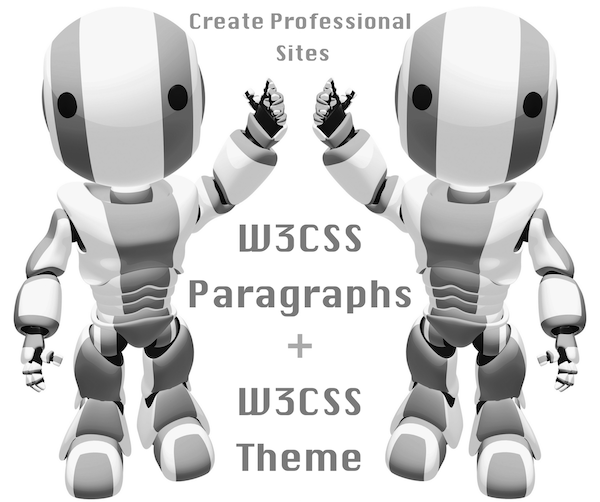
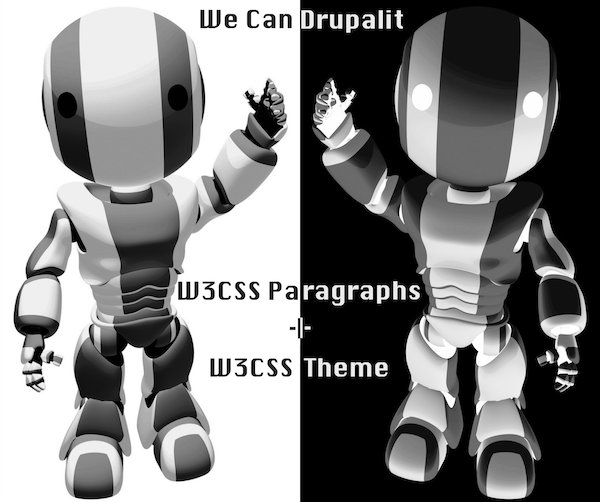
Update text and w3-expand fields

diff --git a/css/components/default-node.css b/css/components/default-node.css
@@ -46,19 +46,35 @@ div.item-list > ol.item-list > li article::before {
   font-size: 22px;
   line-height: 190%;
 }
-.field > .field__label,
-.field > .field__item,
-.field > .field__items,
+
+/* Multi items field */
+.field.field__items > .field__item,
 .field > .field__items > .field__item {
   display: inline-block;
+}
+
+.w3-expand-fields .field.field__items > .field__item,
+.w3-expand-fields .field > .field__items > .field__item {
+  display: block;
+}
+
+/* The wrapper for multi items field always block */
+.field > .field__items {
+  display: block;
+}
+
+/* The wrapper for multi items field if the label is inline */
+.field--label-inline > .field__label,
+.field--label-inline > .field__item,
+.field--label-inline > .field__items {
+  display: inline-block;
+  vertical-align: top;
 }
 
 .field--label-above > .field__label,
 .field--label-above > .field__item,
 .field--label-above > .field__items {
-  clear: both;
   display: block;
-  width: 100%;
 }
 
 .field--type-h5p .field__label,
@@ -98,10 +114,6 @@ ul.links li a {
 .field--name-field-tags .field__item a {
   border: none;
   padding: 3px;
-}
-
-.field--name-field-tags .field__label {
-  padding: 7px 0;
 }
 
 .node__content ul.links {
